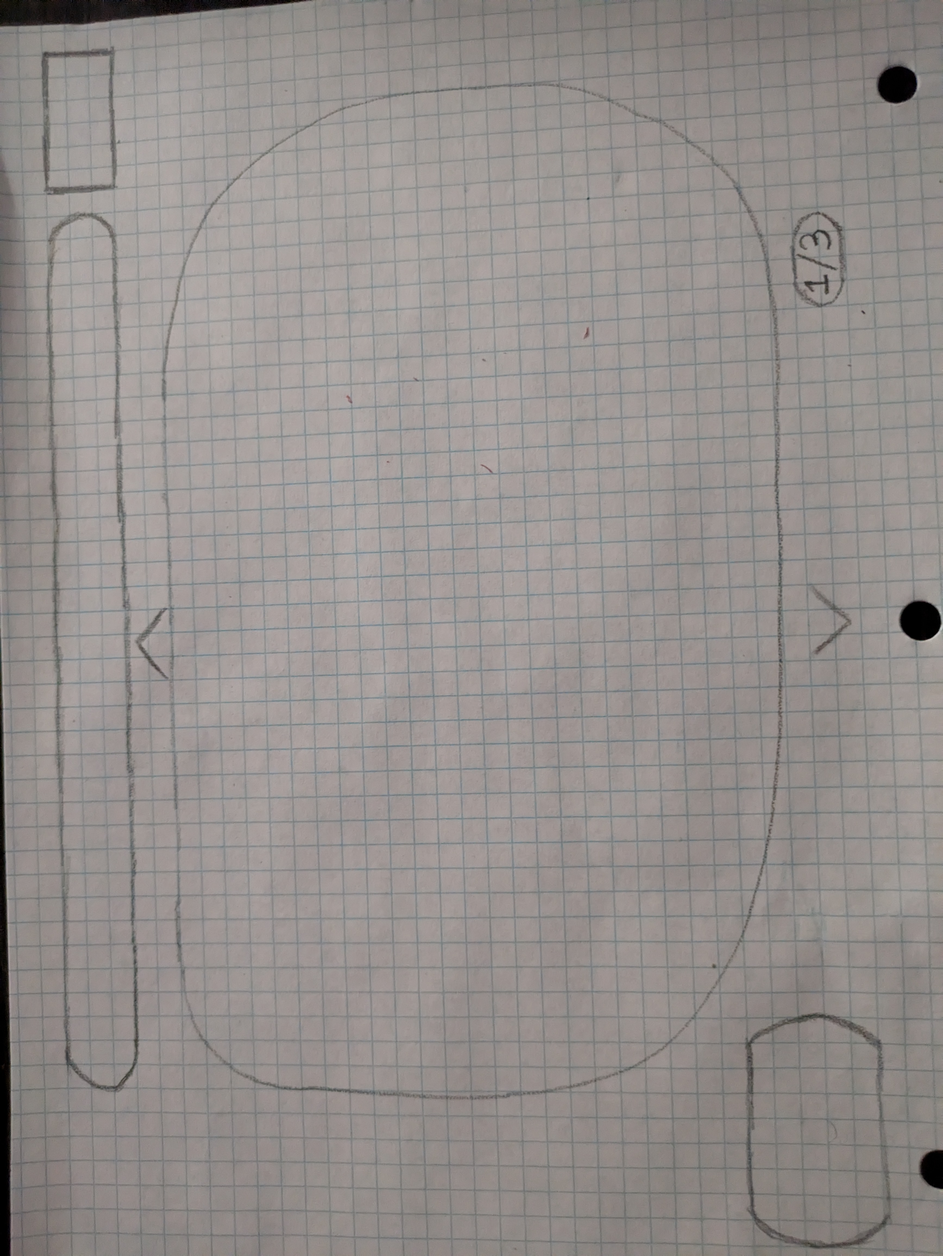
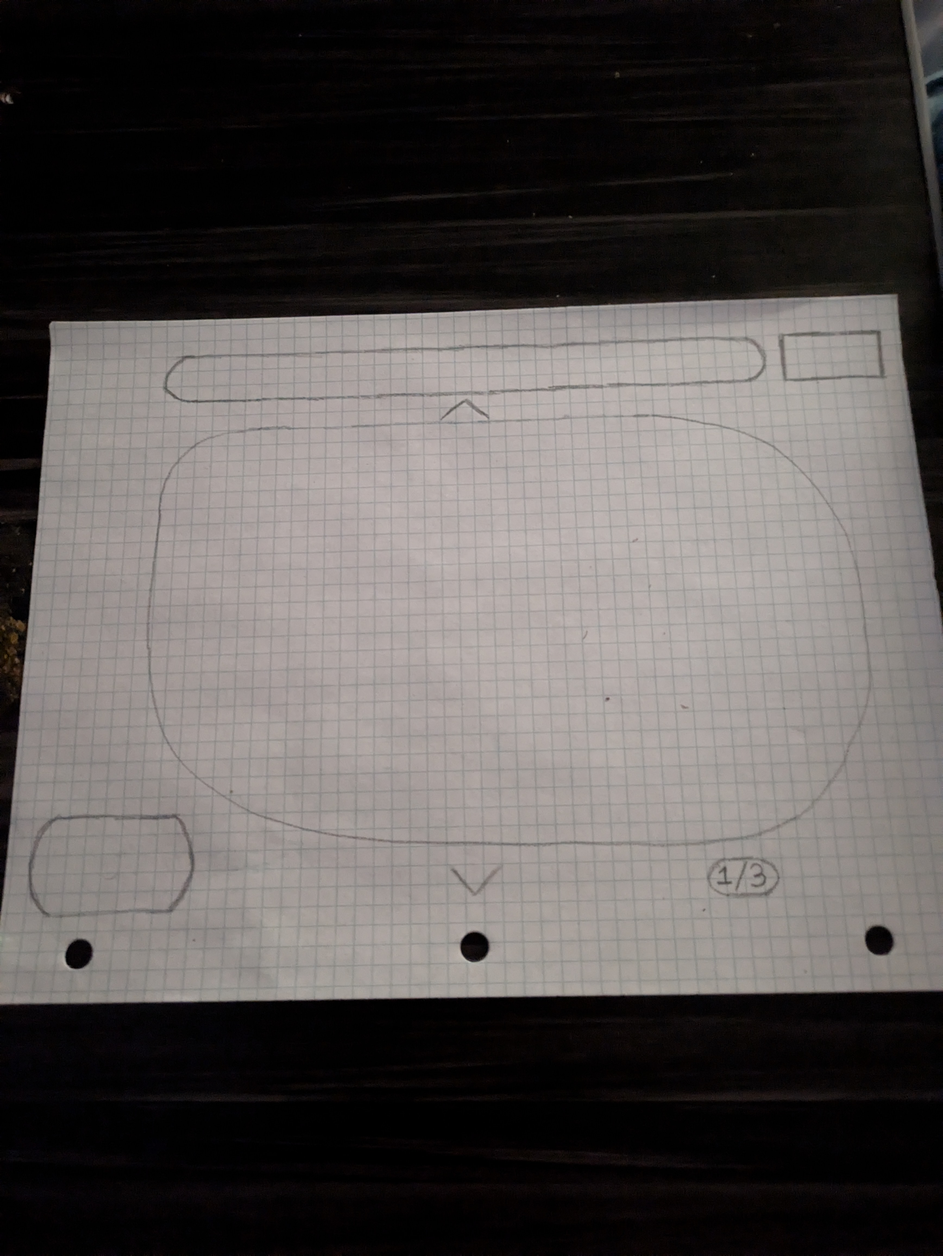
v3: Re analyze what's on the paper in the image and duplicate the UI templates

diff --git a/styles.css b/styles.css
@@ -5,100 +5,92 @@
 }
 
 body {
-  background: #f0f0f0;
+  background: #f5f5f5;
   min-height: 100vh;
   display: flex;
   justify-content: center;
   align-items: center;
   font-family: Arial, sans-serif;
+  padding: 20px;
 }
 
 .container {
-  display: flex;
-  flex-direction: column;
   background: white;
-  border-radius: 15px;
-  box-shadow: 0 4px 6px rgba(0, 0, 0, 0.1);
-  width: 80vh;
-  height: 90%;
-  max-height: 800px;
+  border-radius: 12px;
+  box-shadow: 0 4px 8px rgba(0, 0, 0, 0.1);
+  width: 100%;
+  max-width: 800px;
+  height: 90vh;
+  max-height: 900px;
   position: relative;
-}
-
-.main-section {
-  display: flex;
-  flex: 1;
-}
-
-.sidebar {
-  height: 100%;
-  width: 60px;
-  background: #f8f8f8;
-  border-radius: 0 0 0 15px;
-  padding: 10px;
   display: flex;
   flex-direction: column;
-  align-items: center;
+  padding: 20px;
   gap: 20px;
 }
 
-.sidebar-left-shape,
-.sidebar-right-shape {
-  width: 40px;
-  height: 40px;
-  background: #e0e0e0;
+.top-bar {
+  height: 50px;
+  background: #eee;
   border-radius: 8px;
-}
-
-.sidebar-small-rect {
-  width: 40px;
-  height: 60px;
-  background: #e0e0e0;
-  border-radius: 8px;
-}
-
-.sidebar-large-rect {
-  width: 40px;
-  height: 200px;
-  background: #e0e0e0;
-  border-radius: 8px;
-  margin-top: auto;
-  margin-bottom: auto;
+  width: 100%;
 }
 
 .main-content {
   flex: 1;
-  padding: 20px;
   display: flex;
   flex-direction: column;
-  position: relative;
+  gap: 20px;
 }
 
-.top-shape,
-.bottom-shape {
-  width: 30px;
+.center-panel {
+  flex: 1;
+  display: flex;
+  justify-content: center;
+  align-items: center;
+}
+
+.rounded-container {
+  background: #f0f0f0;
+  border-radius: 15px;
+  width: 100%;
+  height: 100%;
+  padding: 20px;
+}
+
+.grid-layout {
+  display: grid;
+  grid-template-columns: repeat(2, 1fr);
+  grid-template-rows: repeat(2, 1fr);
+  gap: 15px;
+  height: 100%;
+}
+
+.grid-item {
   background: #e0e0e0;
   border-radius: 8px;
-  margin: 0 10px;
-  height: 95%;
 }
 
-.content-area {
+.bottom-section {
+  height: 80px;
+  display: flex;
+  gap: 15px;
+}
+
+.bottom-item {
   flex: 1;
-  position: relative;
-  background: #fafafa;
+  background: #eee;
   border-radius: 8px;
-  margin: 10px;
 }
 
 .page-indicator {
   position: absolute;
-  top: 20px;
-  right: 20px;
+  bottom: 15px;
+  right: 15px;
   font-size: 14px;
   color: #666;
-  background: white;
   padding: 5px 10px;
+  background: white;
   border-radius: 4px;
   box-shadow: 0 2px 4px rgba(0, 0, 0, 0.05);
 }

diff --git a/index.html b/index.html
@@ -7,22 +7,25 @@
 </head>
 <body>
   <div class="container">
-    <main class="main-section">
-      <aside class="sidebar">
-        <div class="sidebar-left-shape"></div>
-        <div class="sidebar-small-rect"></div>
-        <div class="sidebar-large-rect"></div>
-        <div class="sidebar-right-shape"></div>
-      </aside>
-      
-      <div class="main-content">
-        <div class="top-shape"></div>
-        <div class="content-area">
-          <div class="page-indicator">1/3</div>
+    <header class="top-bar"></header>
+    <main class="main-content">
+      <div class="center-panel">
+        <div class="rounded-container">
+          <div class="grid-layout">
+            <div class="grid-item"></div>
+            <div class="grid-item"></div>
+            <div class="grid-item"></div>
+            <div class="grid-item"></div>
+          </div>
         </div>
-        <div class="bottom-shape"></div>
+      </div>
+      <div class="bottom-section">
+        <div class="bottom-item"></div>
+        <div class="bottom-item"></div>
+        <div class="bottom-item"></div>
       </div>
     </main>
+    <div class="page-indicator">1/3</div>
   </div>
 <script defer src="https://static.cloudflareinsights.com/beacon.min.js/v8c78df7c7c0f484497ecbca7046644da1771523124516" integrity="sha512-8DS7rgIrAmghBFwoOTujcf6D9rXvH8xm8JQ1Ja01h9QX8EzXldiszufYa4IFfKdLUKTTrnSFXLDkUEOTrZQ8Qg==" data-cf-beacon='{"version":"2024.11.0","token":"4c6229722a6346bc8eb5cb0e5eae5d41","server_timing":{"name":{"cfCacheStatus":true,"cfEdge":true,"cfExtPri":true,"cfL4":true,"cfOrigin":true,"cfSpeedBrain":true},"location_startswith":null}}' crossorigin="anonymous"></script>
 </body>
